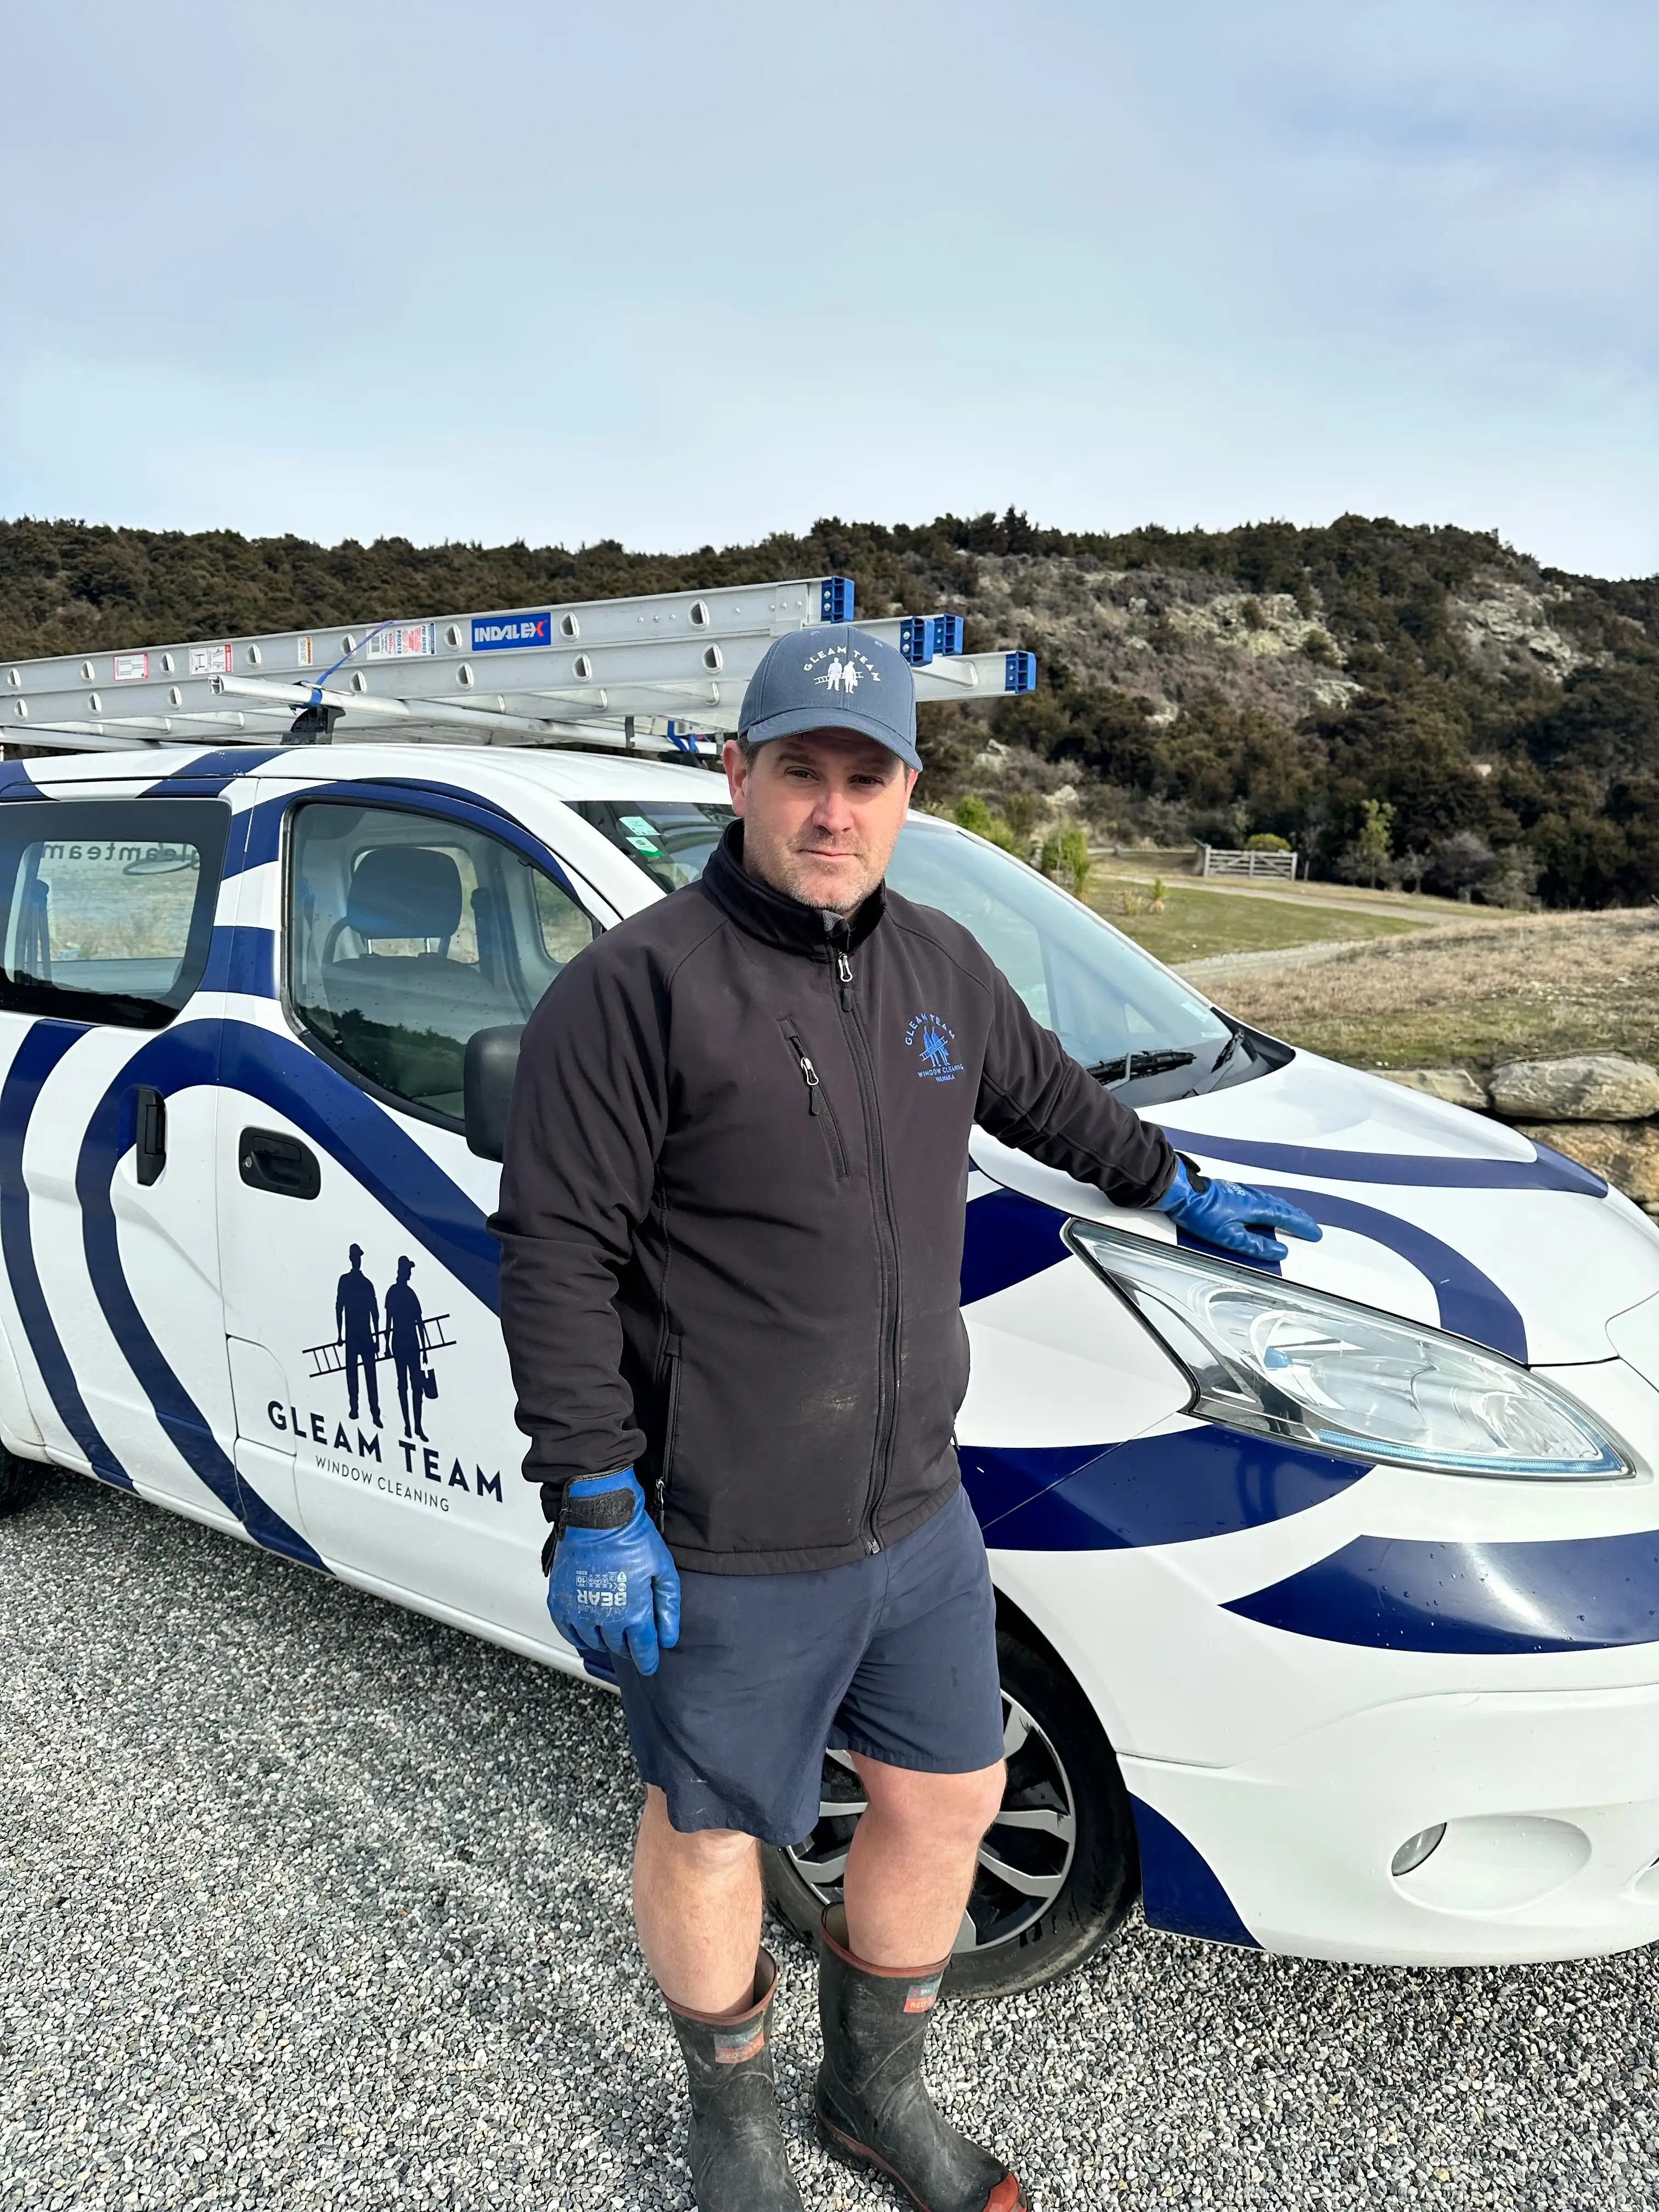
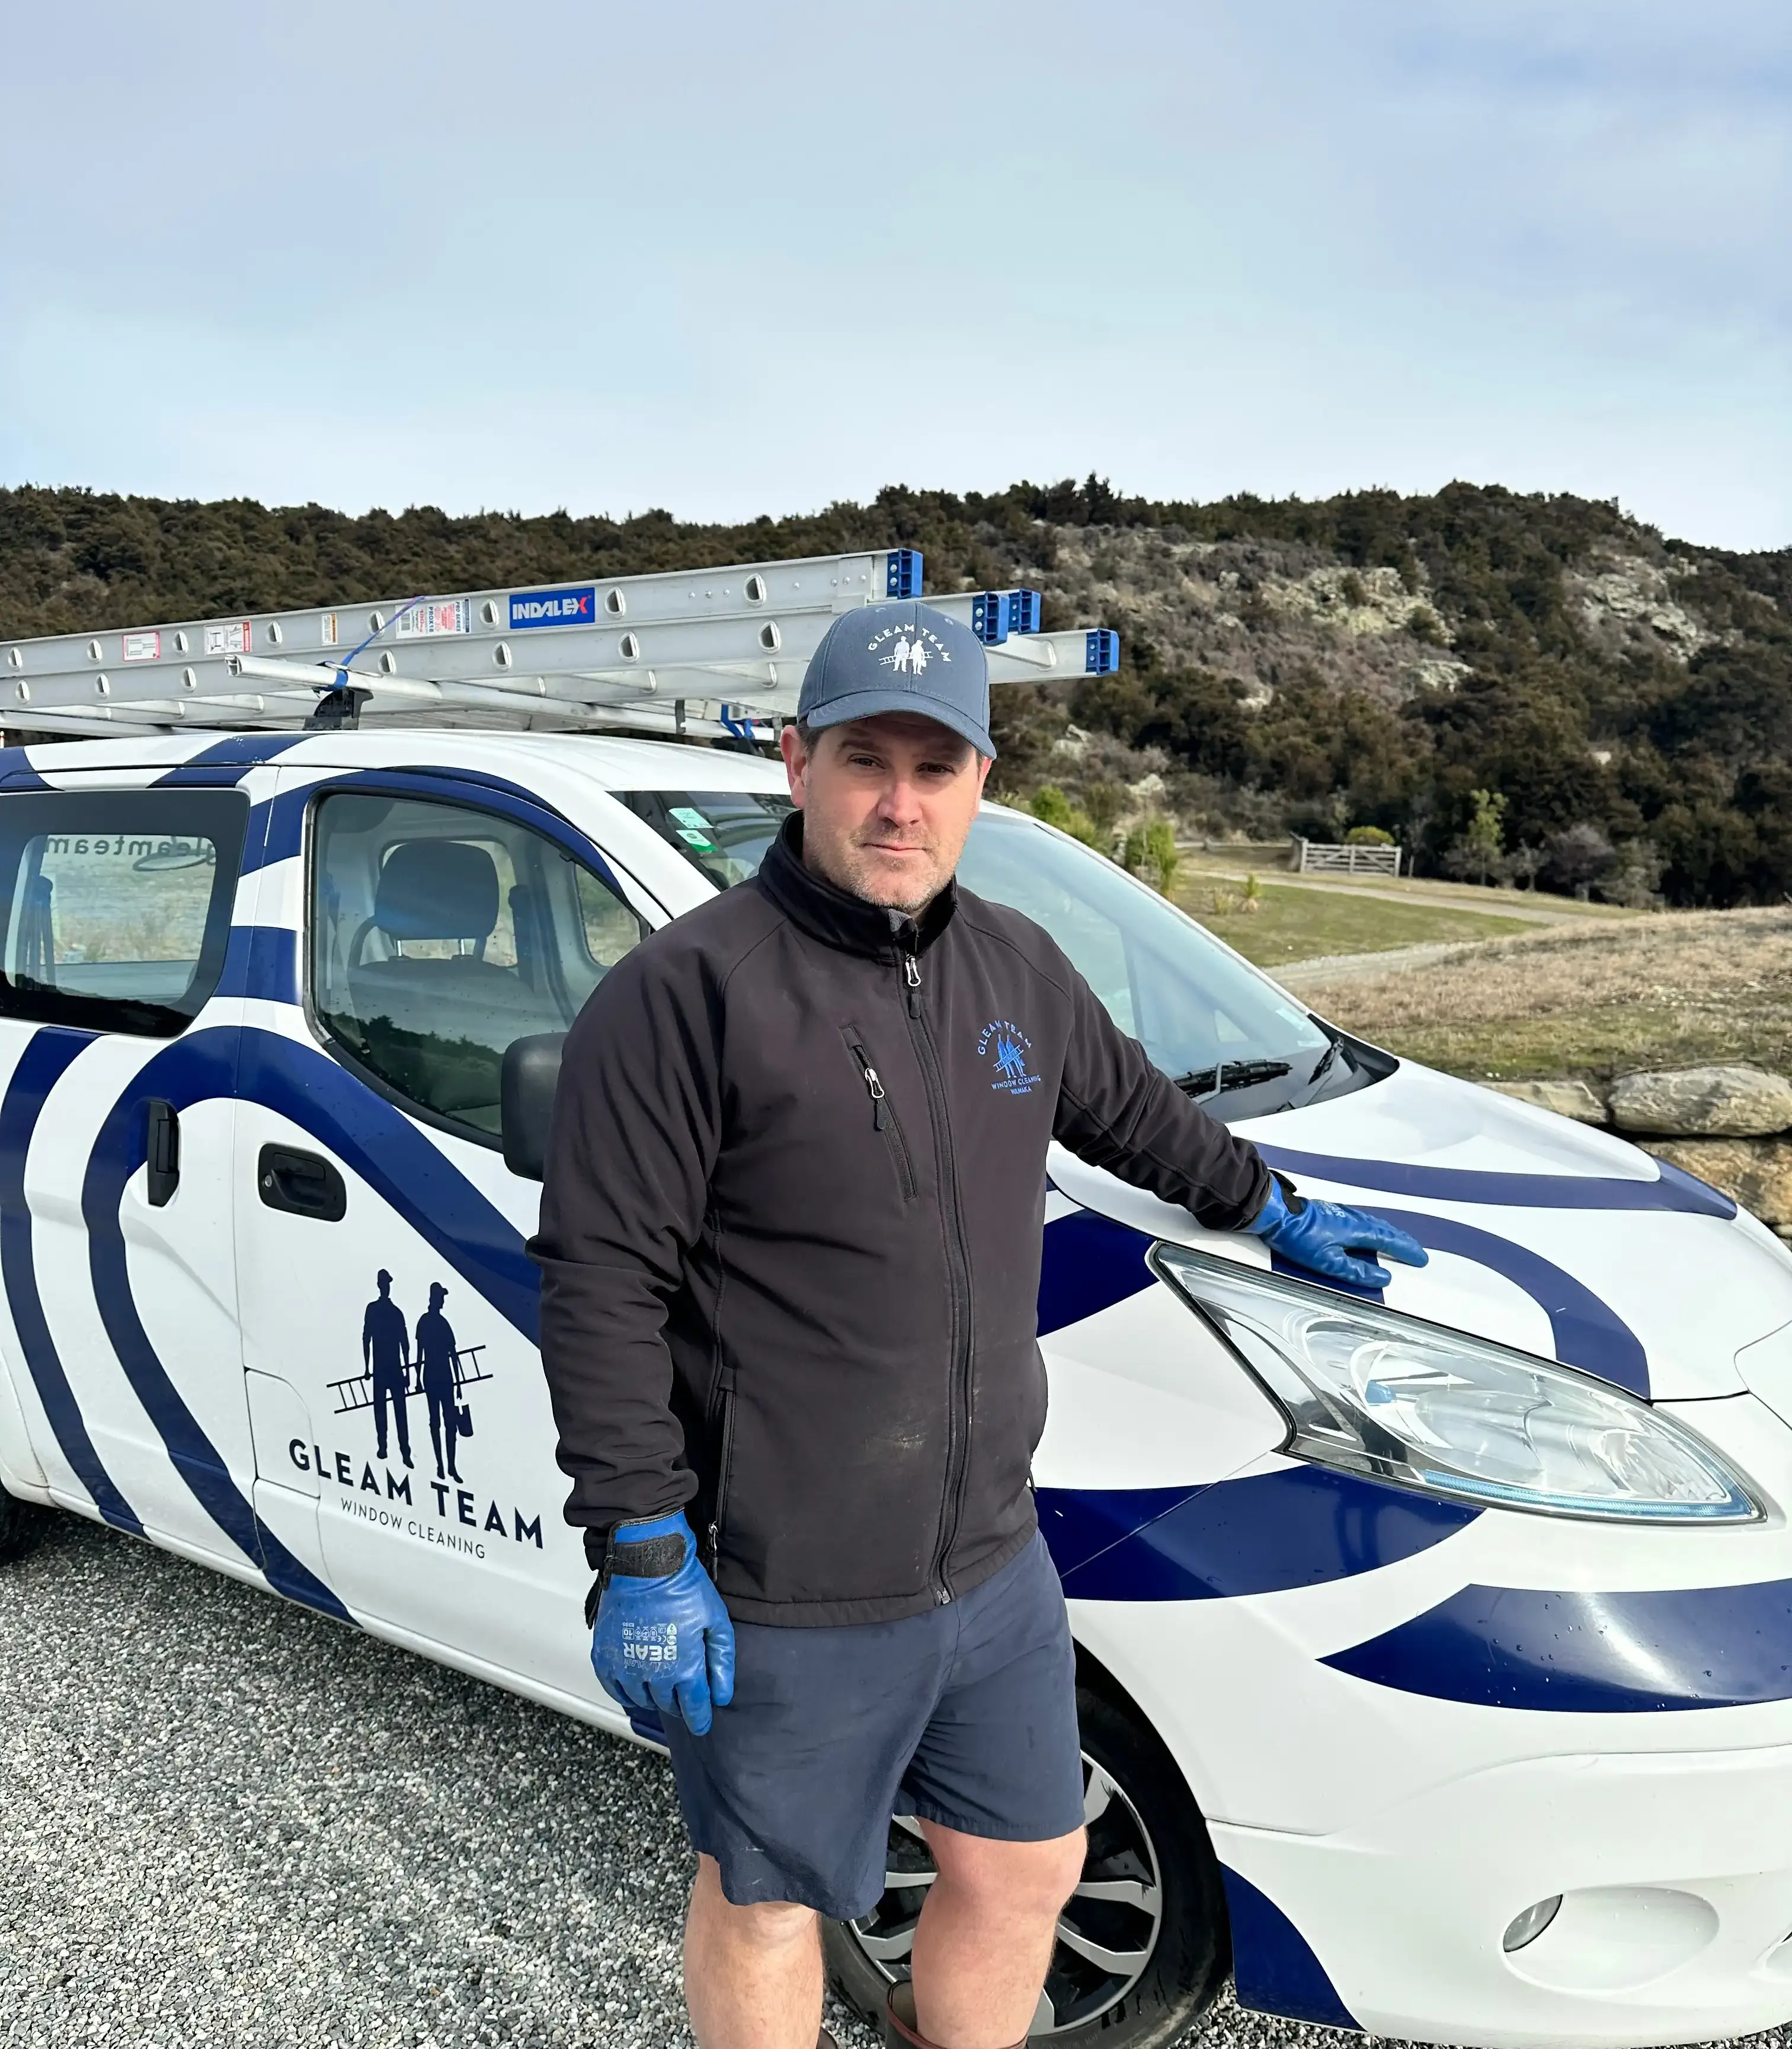
form and photo

diff --git a/src/components/ContactForm.jsx b/src/components/ContactForm.jsx
@@ -1,11 +1,62 @@
-import React from 'react';
+import React, { useState } from 'react';
+import { useNavigate } from 'react-router-dom';
+
+const BASIN_ENDPOINT = 'https://usebasin.com/f/42e0a3778184';
 
 export default function ContactForm() {
+  const navigate = useNavigate();
+  const [filePreviews, setFilePreviews] = useState([]);
+  const [submitting, setSubmitting] = useState(false);
+  const [error, setError] = useState(null);
+
+  const handleFilePreview = (e) => {
+    const files = Array.from(e.target.files);
+    setFilePreviews(files);
+  };
+
+  const removeFile = (indexToRemove) => {
+    setFilePreviews((prev) => prev.filter((_, index) => index !== indexToRemove));
+  };
+
+  // AJAX submit + client-side redirect: Basin's free plan ignores the _redirect
+  // field (custom redirects are Starter+), so we submit in the background and
+  // send the visitor to /thanks ourselves.
+  const handleSubmit = async (e) => {
+    e.preventDefault();
+    setSubmitting(true);
+    setError(null);
+
+    const form = e.target;
+    const formData = new FormData(form);
+
+    // Files: FormData picks up the file input automatically, but respect any
+    // files the user removed from the preview list.
+    formData.delete('attachments[]');
+    filePreviews.forEach((file) => formData.append('attachments[]', file));
+
+    try {
+      const res = await fetch(BASIN_ENDPOINT, {
+        method: 'POST',
+        body: formData,
+        headers: { Accept: 'application/json' },
+      });
+      if (res.ok) {
+        navigate('/thanks');
+      } else {
+        setError('Something went wrong sending your request. Please try again, or phone us on 022 436 7611.');
+        setSubmitting(false);
+      }
+    } catch {
+      setError('Something went wrong sending your request. Please check your connection and try again, or phone us on 022 436 7611.');
+      setSubmitting(false);
+    }
+  };
+
   return (
     <form
-      action="https://usebasin.com/f/42e0a3778184"
-      method="POST"
+      onSubmit={handleSubmit}
       acceptCharset="UTF-8"
+      encType="multipart/form-data"
       className="bg-white p-6 rounded-xl shadow-md space-y-4 max-w-2xl mx-auto"
     >
       <h2 className="text-3xl font-heading font-bold text-duke-dark text-center mb-2">
@@ -41,13 +92,48 @@ export default function ContactForm() {
         <textarea name="message" required rows="4" placeholder="Tell us what needs cleaning..." className="mt-1 w-full border border-gray-300 rounded-md px-4 py-2 focus:outline-none focus:ring-2 focus:ring-duke" />
       </label>
 
-      {/* NOTE: file-upload field removed — Basin free plan doesn't support attachments.
-          If Gleam Team upgrades later, restore the multipart encType and attachments[]
-          input (see git history of this file for the original implementation). */}
+      {/* File Upload */}
+      <label className="block text-sm font-medium text-gray-700">
+        Upload Photos or Files (optional)
+        <input
+          type="file"
+          name="attachments[]"
+          multiple
+          accept=".jpg,.jpeg,.png,.pdf,.doc,.docx"
+          onChange={handleFilePreview}
+          className="mt-1 w-full border border-gray-300 rounded-md px-4 py-2 focus:outline-none focus:ring-2 focus:ring-duke"
+        />
+        <p className="text-xs text-gray-500 mt-1">Accepted: JPG, PNG, PDF, DOC. Max 5MB each.</p>
+      </label>
 
-      {/* Hidden Fields */}
-      <input type="text" name="_gotcha" style={{ display: 'none' }} />
-      <input type="hidden" name="_redirect" value="https://gleamteam.co.nz/thanks" /> {/* TODO: confirm final domain */}
+      {/* File Previews */}
+      {filePreviews.length > 0 && (
+        <div className="mt-4 space-y-2">
+          {filePreviews.map((file, index) => (
+            <div key={index} className="text-sm text-gray-700 flex items-center gap-4">
+              {file.type.startsWith('image/') && (
+                <img
+                  src={URL.createObjectURL(file)}
+                  alt={`Preview ${index}`}
+                  className="w-16 h-16 object-cover rounded border"
+                />
+              )}
+              <span className="flex-1 break-words">{file.name}</span>
+              <button
+                type="button"
+                onClick={() => removeFile(index)}
+                className="text-red-600 text-xs font-semibold hover:underline"
+              >
+                Remove
+              </button>
+            </div>
+          ))}
+        </div>
+      )}
+
+      {/* Honeypot */}
+      <input type="text" name="_gotcha" style={{ display: 'none' }} tabIndex="-1" autoComplete="off" />
+
       {/* Promotional Opt-In */}
       <label className="flex items-start text-sm text-gray-700">
         <input
@@ -58,12 +144,19 @@ export default function ContactForm() {
         />
         <span>Would you like to receive promotional material from Gleam Team?</span>
       </label>
+
+      {/* Error message */}
+      {error && (
+        <p className="text-sm text-red-600 text-center" role="alert">{error}</p>
+      )}
+
       {/* Submit */}
       <button
         type="submit"
-        className="bg-duke-blue text-white font-semibold px-6 py-3 rounded-md hover:bg-duke-dark transition-colors w-full"
+        disabled={submitting}
+        className="bg-duke-blue text-white font-semibold px-6 py-3 rounded-md hover:bg-duke-dark transition-colors w-full disabled:opacity-60 disabled:cursor-not-allowed"
       >
-        Send Request
+        {submitting ? 'Sending…' : 'Send Request'}
       </button>
     </form>
   );